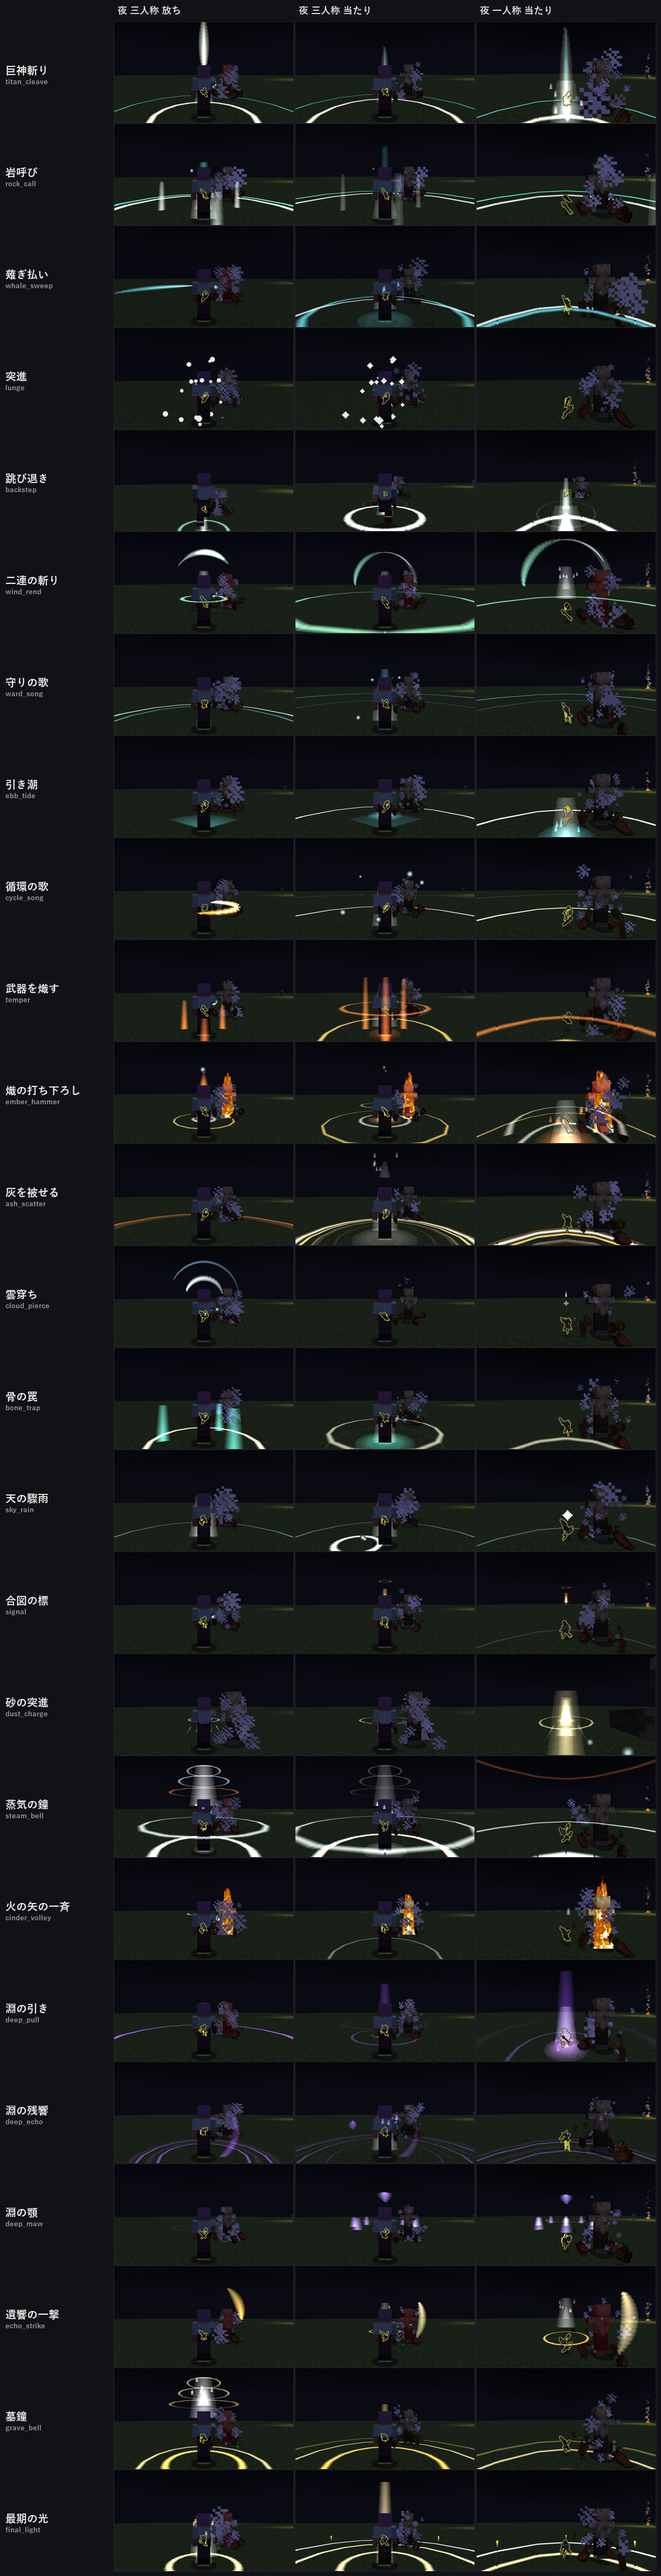
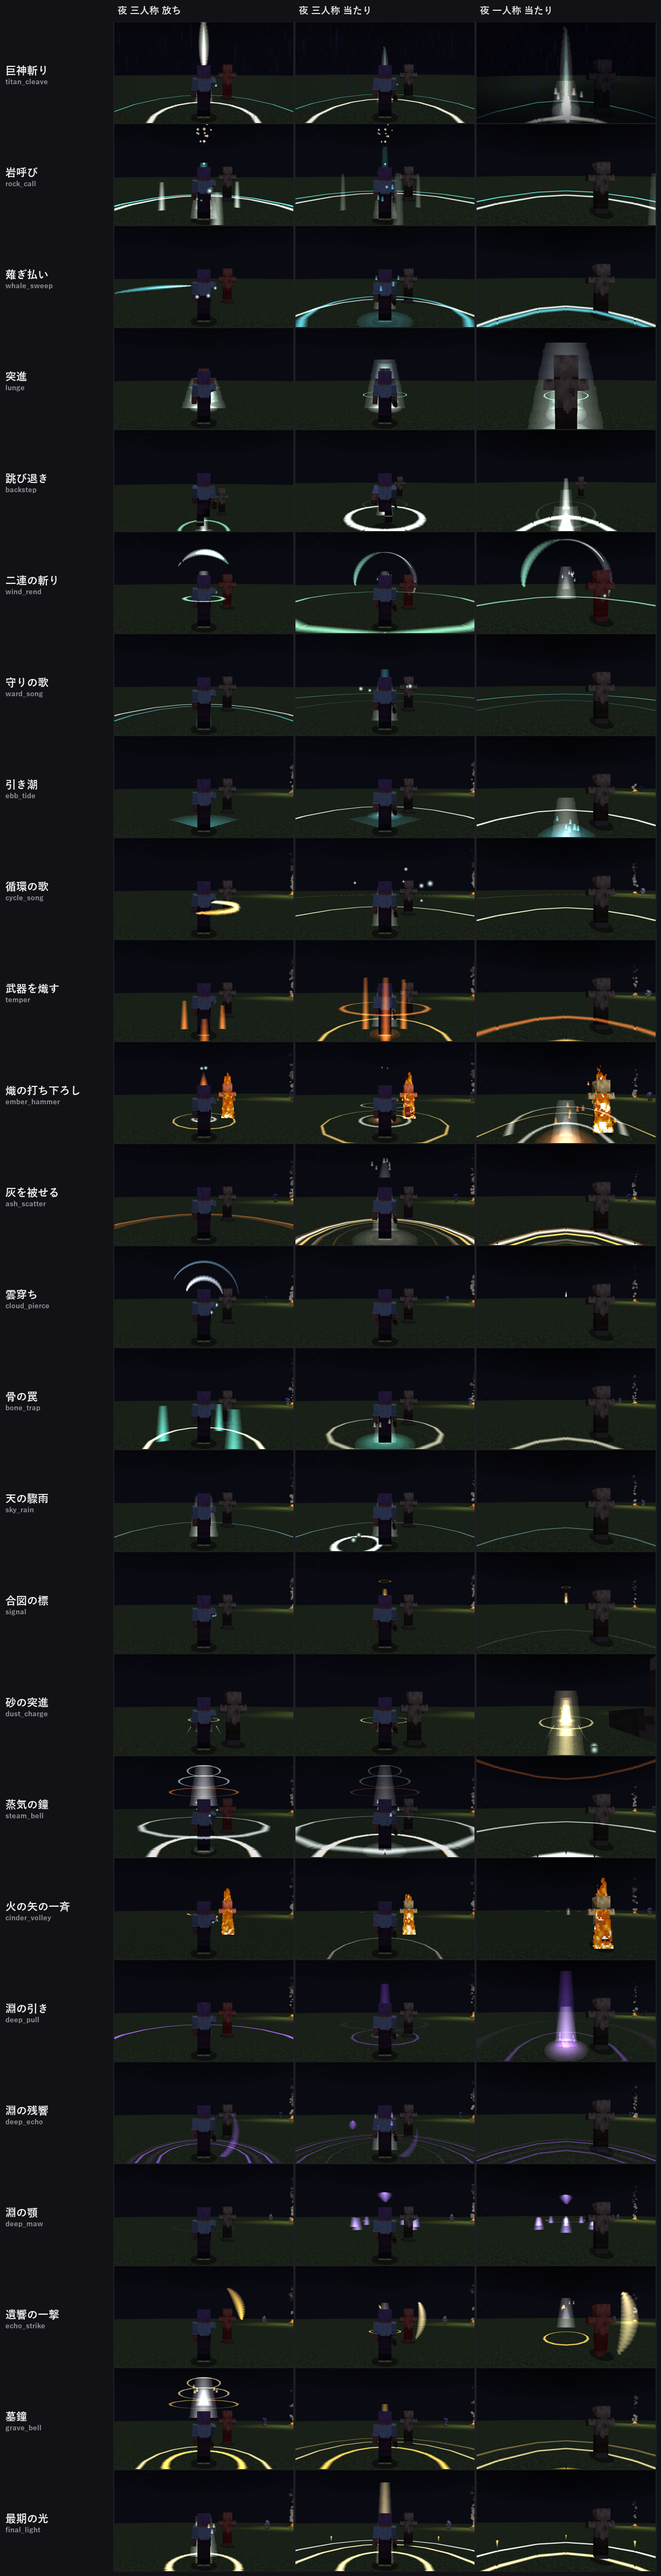
Skill FX shots: lunge target in its 25-degree cone, old husks sent to the void instead of killed in place (the white 'hit specks' were their death poof and dropped flesh), no mob loot

diff --git a/tools/gen/shots/gen_skill_fx_shots.py b/tools/gen/shots/gen_skill_fx_shots.py
@@ -54,9 +54,10 @@ CASTER_POS = "0.5 -60 0.5 0 0"
 TARGET_POS = "-1.0 -60 3.5"
 # 突進する技は、的を通り抜けると的が体の後ろ・カメラの真横に来て、黒い箱のように映る。
 # 砂の突進は的を進む先 (6.5 ブロック) の右側へ置く (突進の終点で隣に並ぶ)
-TARGET_BY_SKILL = {"dust_charge": "-0.7 -60 7.0"}
+# 突進は前 25 度の中に的が無いと「的がない」で撃てない (27 度の既定の的では失敗していた)。的を真っすぐ前へ
+TARGET_BY_SKILL = {"dust_charge": "-0.7 -60 7.0", "lunge": "0.5 -60 5.5"}
 def husk_for(skill: str) -> str:
-    # 体力を 500 にして、当たりで倒れない (倒れると死の煙が出て、白い粒と見分けがつかなくなる)
+    # 体力を 500 にして、当たりで倒れない (倒れると死の煙が出る)
     return (f"summon minecraft:husk {TARGET_BY_SKILL.get(skill, TARGET_POS)} "
             "{NoAI:1b,Silent:1b,Health:500f,attributes:[{id:\"minecraft:max_health\",base:500.0d}]}")
 # 三人称は視野を狭めて、体と的を大きく撮る (カメラの距離は既定の 4 ブロックのまま。FOV だけ変える)
@@ -97,7 +98,9 @@ def block(skill: str, rel: int, imp: int, lin: int, bow: bool, view: str, phase:
     lines.append(f"cmd skyabyss skill learn @s {skill} 3")
     lines.append(f"cmd skyabyss skill slot @s 1 {skill}")
     lines.append("cmd skyabyss skill cooldowns @s")
-    lines.append("cmd execute if entity @e[type=minecraft:husk] run kill @e[type=minecraft:husk]")
+    # 前の的は奈落へ送って消す (その場で kill すると死の煙が 1 秒ほど残り、落とした腐った肉と一緒に「当たりの白い粒」に見えていた)
+    lines.append("cmd execute as @e[type=minecraft:husk] run tp @s ~ -400 ~")
+    lines.append("cmd execute if entity @e[type=minecraft:item] run kill @e[type=minecraft:item]")
     lines.append(f"cmd {husk_for(skill)}")
     lines.append("wait 10")
     lines.append("cmd skyabyss skill mana @s full")
@@ -131,6 +134,7 @@ def main() -> None:
     out.append("cmd gamerule doWeatherCycle false")
     out.append("cmd weather clear")
     out.append("cmd gamemode survival")
+    out.append("cmd gamerule doMobLoot false")
     out.append("camera 0 -60 0 0 0")
     out.append("hud off")
     out.append("cmd skyabyss cinematic stop")
